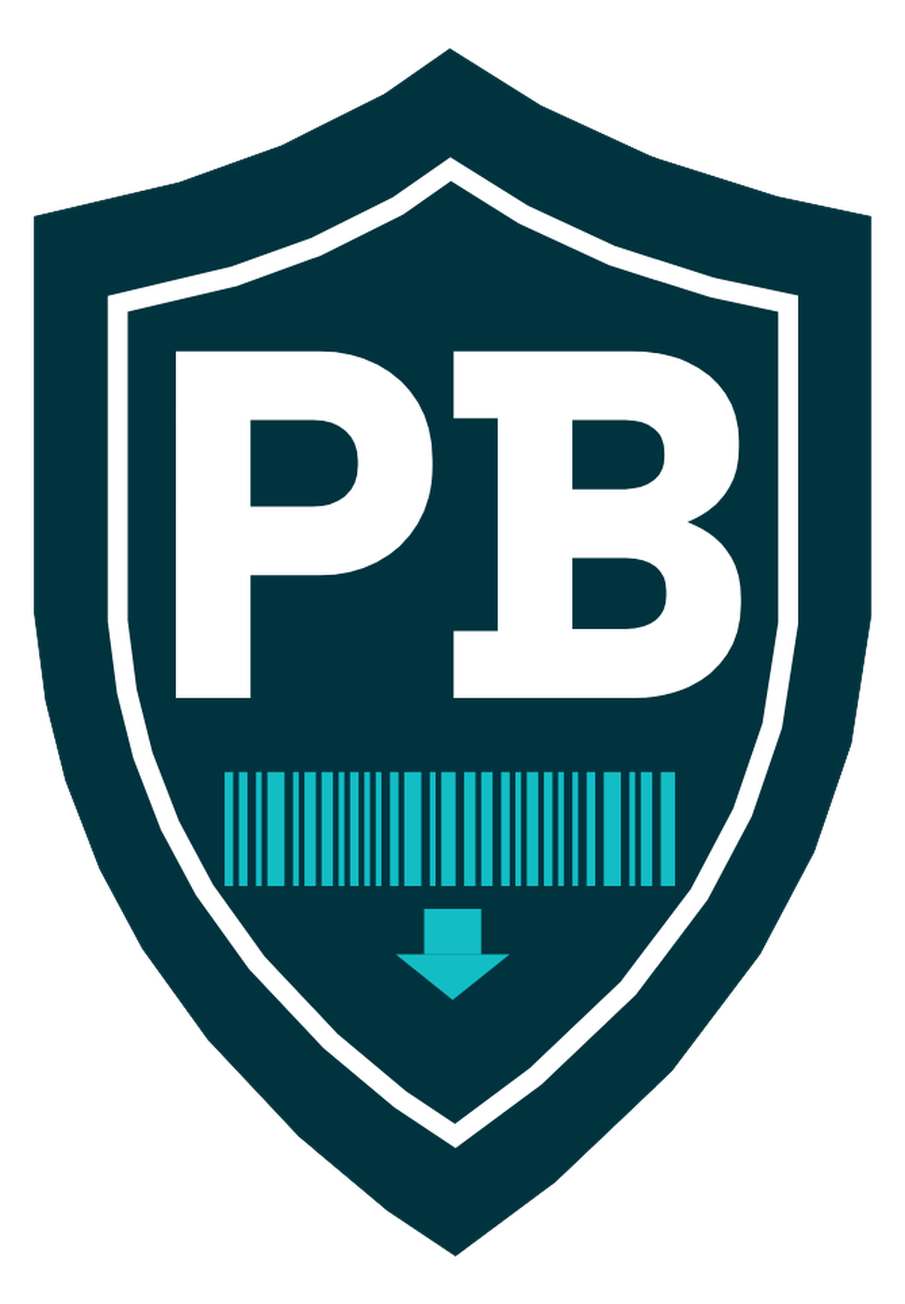
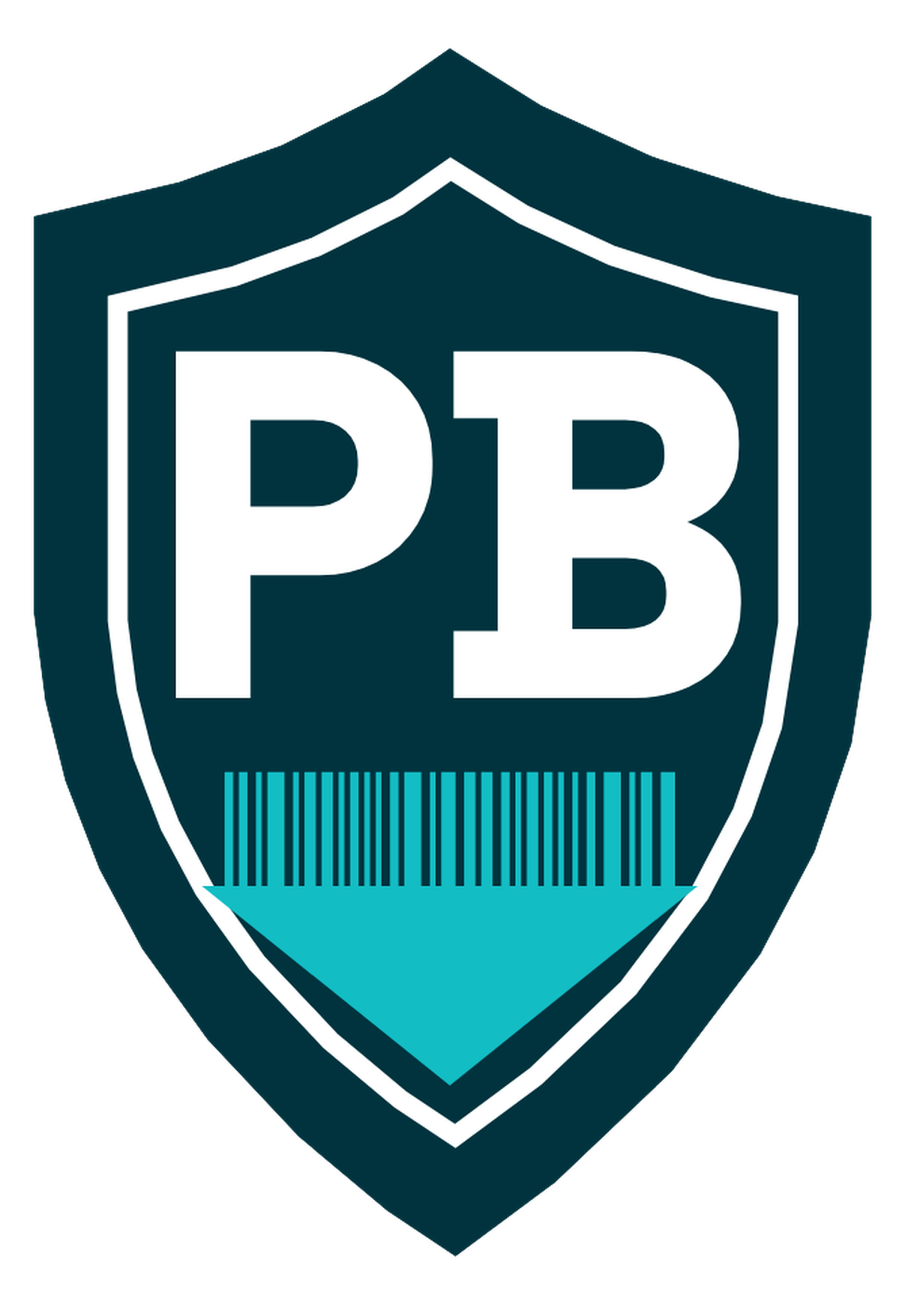
Merge arrow into barcode as one shape, make buttons light-to-dark green
Logo: the price-drop arrow is now a single triangle flush against the
barcode's bottom edge (no stem, no gap) so the two read as one
connected mark, matching the supplied reference exactly. Regenerated
the favicon and derived PNG assets from the updated master SVG.

Buttons: the app's generic button scheme (previously grey resting /
ink hover) now rests on a light green and goes to a darker green on
hover/press, using the brand's value-green token end to end. The
sidebar nav links and the logo's own wordmark color are untouched.

Claude-Session: https://claude.ai/code/session_01LVhEXspiaEvfKxL32FcBy7

Changed region(s): [[0.2163, 0.6757, 0.7724, 0.8293]]

diff --git a/components/check-price/CheckPriceExperience.tsx b/components/check-price/CheckPriceExperience.tsx
@@ -588,7 +588,7 @@ export function CheckPriceExperience({ initialMode }: { initialMode: Mode }) {
   // and the app.
   const outlineButton = isNativeApp
     ? "flex-1 rounded-xl border border-line bg-field px-4 py-3.5 font-display text-[14px] font-medium text-ink shadow-sm transition active:scale-[0.98] active:border-ink active:bg-ink-dark active:text-white"
-    : "flex-1 rounded border border-line bg-field px-4 py-3 font-display text-[15px] text-ink transition-colors hover:border-ink hover:bg-ink-soft hover:text-white active:border-ink active:bg-ink-dark active:text-white";
+    : "flex-1 rounded border border-value/30 bg-value-soft px-4 py-3 font-display text-[15px] text-value transition-colors hover:border-value hover:bg-value hover:text-white active:border-value active:bg-value-dark active:text-white";
 
   return (
     <AppPage>
@@ -602,7 +602,7 @@ export function CheckPriceExperience({ initialMode }: { initialMode: Mode }) {
           className={
             isNativeApp
               ? "btn-shine mb-6 w-full rounded-xl bg-ink px-4 py-6 font-display text-[20px] font-bold text-white shadow-md transition active:scale-[0.98] active:bg-ink-dark"
-              : "btn-shine mb-6 w-full rounded border border-line bg-field px-4 py-6 font-display text-[20px] font-bold text-ink transition-colors hover:border-ink hover:bg-ink-soft hover:text-white active:border-ink active:bg-ink-dark active:text-white"
+              : "btn-shine mb-6 w-full rounded border border-value/30 bg-value-soft px-4 py-6 font-display text-[20px] font-bold text-value transition-colors hover:border-value hover:bg-value hover:text-white active:border-value active:bg-value-dark active:text-white"
           }
         >
           {t("Check Price & Compare")}
@@ -680,7 +680,7 @@ export function CheckPriceExperience({ initialMode }: { initialMode: Mode }) {
           <button
             type="button"
             onClick={() => setCheckPriceRevealed(false)}
-            className="mb-6 inline-flex items-center gap-1 rounded border border-line bg-field px-3 py-1.5 font-display text-sm text-ink transition-colors hover:border-value hover:bg-value-soft active:border-value active:bg-value-soft"
+            className="mb-6 inline-flex items-center gap-1 rounded border border-value/30 bg-value-soft px-3 py-1.5 font-display text-sm text-value transition-colors hover:border-value hover:bg-value active:border-value active:bg-value-dark hover:text-white active:text-white"
           >
             {t("Back")}
           </button>
@@ -760,7 +760,7 @@ export function CheckPriceExperience({ initialMode }: { initialMode: Mode }) {
               <button
                 type="button"
                 onClick={startNewCheck}
-                className="whitespace-nowrap rounded border border-line bg-field px-3 py-1.5 font-display text-sm text-ink transition-colors hover:border-ink hover:bg-ink-soft hover:text-white active:border-ink active:bg-ink-dark active:text-white"
+                className="whitespace-nowrap rounded border border-value/30 bg-value-soft px-3 py-1.5 font-display text-sm text-value transition-colors hover:border-value hover:bg-value hover:text-white active:border-value active:bg-value-dark active:text-white"
               >
                 {t("Start new check")}
               </button>
@@ -957,7 +957,7 @@ export function CheckPriceExperience({ initialMode }: { initialMode: Mode }) {
               <button
                 onClick={() => setSortMode("price")}
                 className={`rounded-sm px-2 py-1 font-display text-[13px] transition-colors ${
-                  sortMode === "price" ? "bg-ink text-white" : "border border-line bg-field text-ink hover:bg-ink-soft hover:text-white"
+                  sortMode === "price" ? "bg-ink text-white" : "border border-value/30 bg-value-soft text-value hover:bg-value hover:text-white"
                 }`}
               >
                 {t("Best price")}
@@ -965,7 +965,7 @@ export function CheckPriceExperience({ initialMode }: { initialMode: Mode }) {
               <button
                 onClick={() => setSortMode("distance")}
                 className={`rounded-sm px-2 py-1 font-display text-[13px] transition-colors ${
-                  sortMode === "distance" ? "bg-ink text-white" : "border border-line bg-field text-ink hover:bg-ink-soft hover:text-white"
+                  sortMode === "distance" ? "bg-ink text-white" : "border border-value/30 bg-value-soft text-value hover:bg-value hover:text-white"
                 }`}
               >
                 {t("Nearest")}

diff --git a/app/(merchant)/inventory/add/page.tsx b/app/(merchant)/inventory/add/page.tsx
@@ -224,7 +224,7 @@ export default function AddItemPage() {
 
   return (
     <AppPage>
-      <Link href="/inventory" className="mb-4 inline-flex items-center gap-1 rounded border border-line bg-field px-3 py-1.5 font-display text-sm text-ink transition-colors hover:border-value hover:bg-value-soft active:border-value active:bg-value-soft">
+      <Link href="/inventory" className="mb-4 inline-flex items-center gap-1 rounded border border-value/30 bg-value-soft px-3 py-1.5 font-display text-sm text-value transition-colors hover:border-value hover:bg-value active:border-value active:bg-value-dark hover:text-white active:text-white">
         ← {t("Back to Manage Inventory")}
       </Link>
       <header className="mb-6">
@@ -243,21 +243,21 @@ export default function AddItemPage() {
               <button
                 type="button"
                 onClick={() => setShowScanner(true)}
-                className="flex-1 rounded border border-line bg-field px-4 py-3 font-display text-[15px] text-ink transition-colors hover:border-ink hover:bg-ink-soft hover:text-white active:border-ink active:bg-ink-dark active:text-white"
+                className="flex-1 rounded border border-value/30 bg-value-soft px-4 py-3 font-display text-[15px] text-value transition-colors hover:border-value hover:bg-value hover:text-white active:border-value active:bg-value-dark active:text-white"
               >
                 {t("Scan Barcode")}
               </button>
               <button
                 type="button"
                 onClick={() => cameraInputRef.current?.click()}
-                className="flex-1 rounded border border-line bg-field px-4 py-3 font-display text-[15px] text-ink transition-colors hover:border-ink hover:bg-ink-soft hover:text-white active:border-ink active:bg-ink-dark active:text-white"
+                className="flex-1 rounded border border-value/30 bg-value-soft px-4 py-3 font-display text-[15px] text-value transition-colors hover:border-value hover:bg-value hover:text-white active:border-value active:bg-value-dark active:text-white"
               >
                 {t("Snap")}
               </button>
               <button
                 type="button"
                 onClick={() => setMode("text")}
-                className="flex-1 rounded border border-line bg-field px-4 py-3 font-display text-[15px] text-ink transition-colors hover:border-ink hover:bg-ink-soft hover:text-white active:border-ink active:bg-ink-dark active:text-white"
+                className="flex-1 rounded border border-value/30 bg-value-soft px-4 py-3 font-display text-[15px] text-value transition-colors hover:border-value hover:bg-value hover:text-white active:border-value active:bg-value-dark active:text-white"
               >
                 {t("Enter item details")}
               </button>
@@ -296,8 +296,8 @@ export default function AddItemPage() {
                 disabled={extracting || !textQuery.trim()}
                 className={`rounded-sm px-4 py-1.5 font-display text-sm font-medium transition-colors disabled:opacity-40 ${
                   textQuery.trim()
-                    ? "bg-field text-ink hover:bg-ink-soft active:bg-ink-dark hover:text-white active:text-white"
-                    : "bg-field text-ink hover:bg-ink-soft hover:text-white active:bg-ink-dark active:text-white"
+                    ? "bg-value-soft text-value hover:bg-value active:bg-value-dark hover:text-white active:text-white"
+                    : "bg-value-soft text-value hover:bg-value hover:text-white active:bg-value-dark active:text-white"
                 }`}
               >
                 {extracting ? t("Reading…") : t("Identify")}
@@ -504,7 +504,7 @@ export default function AddItemPage() {
             <button
               onClick={handleSave}
               disabled={saving || !price}
-              className="rounded-sm bg-field px-4 py-2 font-display text-sm font-medium text-ink transition-colors hover:bg-ink-soft hover:text-white active:bg-ink-dark active:text-white disabled:opacity-40"
+              className="rounded-sm bg-value-soft px-4 py-2 font-display text-sm font-medium text-value transition-colors hover:bg-value hover:text-white active:bg-value-dark active:text-white disabled:opacity-40"
             >
               {saving ? t("Saving…") : t("Save item")}
             </button>

diff --git a/app/(merchant)/inventory/bulk/page.tsx b/app/(merchant)/inventory/bulk/page.tsx
@@ -108,7 +108,7 @@ export default function BulkUploadPage() {
 
   return (
     <AppPage>
-      <Link href="/inventory" className="mb-4 inline-flex items-center gap-1 rounded border border-line bg-field px-3 py-1.5 font-display text-sm text-ink transition-colors hover:border-value hover:bg-value-soft active:border-value active:bg-value-soft">
+      <Link href="/inventory" className="mb-4 inline-flex items-center gap-1 rounded border border-value/30 bg-value-soft px-3 py-1.5 font-display text-sm text-value transition-colors hover:border-value hover:bg-value active:border-value active:bg-value-dark hover:text-white active:text-white">
         ← {t("Back to Manage Inventory")}
       </Link>
 
@@ -130,7 +130,7 @@ export default function BulkUploadPage() {
             </p>
             <button
               onClick={downloadTemplate}
-              className="mt-3 rounded-sm border border-line bg-field px-4 py-2 font-display text-sm text-ink transition-colors hover:border-value hover:bg-ink-soft hover:text-white active:border-value active:bg-ink-dark active:text-white"
+              className="mt-3 rounded-sm border border-value/30 bg-value-soft px-4 py-2 font-display text-sm text-value transition-colors hover:border-value hover:bg-value hover:text-white active:border-value active:bg-value-dark active:text-white"
             >
               {t("Download template (CSV)")}
             </button>
@@ -144,7 +144,7 @@ export default function BulkUploadPage() {
             <div className="mt-3 flex flex-wrap items-center gap-3">
               <button
                 onClick={() => fileInputRef.current?.click()}
-                className="rounded-sm border border-line bg-field px-4 py-2 font-display text-sm text-ink transition-colors hover:border-value hover:bg-ink-soft hover:text-white active:border-value active:bg-ink-dark active:text-white"
+                className="rounded-sm border border-value/30 bg-value-soft px-4 py-2 font-display text-sm text-value transition-colors hover:border-value hover:bg-value hover:text-white active:border-value active:bg-value-dark active:text-white"
               >
                 {t("Choose CSV file")}
               </button>
@@ -156,7 +156,7 @@ export default function BulkUploadPage() {
               <button
                 onClick={handleUpload}
                 disabled={uploading}
-                className="mt-3 rounded-sm bg-field px-4 py-2 font-display text-sm font-medium text-ink transition-colors hover:bg-ink-soft active:bg-ink-dark disabled:opacity-40 hover:text-white active:text-white"
+                className="mt-3 rounded-sm bg-value-soft px-4 py-2 font-display text-sm font-medium text-value transition-colors hover:bg-value active:bg-value-dark disabled:opacity-40 hover:text-white active:text-white"
               >
                 {uploading ? t("Uploading…") : t("Upload and process")}
               </button>

diff --git a/components/merchant/InventoryTable.tsx b/components/merchant/InventoryTable.tsx
@@ -348,7 +348,7 @@ export function InventoryTable({
                     type="button"
                     onClick={lookupNutritionForEdit}
                     disabled={loadingNutrition}
-                    className="rounded-sm border border-line bg-field px-2 py-1 font-display text-xs text-ink transition-colors hover:border-value hover:bg-ink-soft hover:text-white active:border-value active:bg-ink-dark active:text-white disabled:opacity-40"
+                    className="rounded-sm border border-value/30 bg-value-soft px-2 py-1 font-display text-xs text-value transition-colors hover:border-value hover:bg-value hover:text-white active:border-value active:bg-value-dark active:text-white disabled:opacity-40"
                   >
                     {loadingNutrition ? t("Estimating…") : t("Look up nutrition facts")}
                   </button>
@@ -437,14 +437,14 @@ export function InventoryTable({
             <div className="mt-5 flex justify-end gap-2">
               <button
                 onClick={() => setEditing(null)}
-                className="rounded-sm bg-field px-4 py-2 font-display text-sm font-medium text-ink transition-colors hover:bg-ink-soft active:bg-ink-dark hover:text-white active:text-white"
+                className="rounded-sm bg-value-soft px-4 py-2 font-display text-sm font-medium text-value transition-colors hover:bg-value active:bg-value-dark hover:text-white active:text-white"
               >
                 {t("Cancel")}
               </button>
               <button
                 onClick={saveEdit}
                 disabled={savingEdit || !editName.trim()}
-                className="rounded-sm bg-field px-4 py-2 font-display text-sm font-medium text-ink hover:bg-ink-soft active:bg-ink-dark disabled:opacity-40 hover:text-white active:text-white"
+                className="rounded-sm bg-value-soft px-4 py-2 font-display text-sm font-medium text-value hover:bg-value active:bg-value-dark disabled:opacity-40 hover:text-white active:text-white"
               >
                 {savingEdit ? t("Saving…") : t("Save")}
               </button>
@@ -557,7 +557,7 @@ export function InventoryTable({
             </div>
             <button
               onClick={() => setViewingNutrition(null)}
-              className="mt-4 w-full rounded-sm bg-field px-4 py-2 font-display text-sm text-ink transition-colors hover:bg-ink-soft hover:text-white active:bg-ink-dark active:text-white"
+              className="mt-4 w-full rounded-sm bg-value-soft px-4 py-2 font-display text-sm text-value transition-colors hover:bg-value hover:text-white active:bg-value-dark active:text-white"
             >
               {t("Close")}
             </button>

diff --git a/app/(auth)/signup/merchant/page.tsx b/app/(auth)/signup/merchant/page.tsx
@@ -180,7 +180,7 @@ export default function MerchantSignup() {
         </p>
         <Link
           href="/login?justSignedUp=1"
-          className="mt-6 block rounded-sm bg-field px-4 py-2 text-center font-display text-sm font-medium text-ink hover:bg-ink-soft active:bg-ink-dark hover:text-white active:text-white"
+          className="mt-6 block rounded-sm bg-value-soft px-4 py-2 text-center font-display text-sm font-medium text-value hover:bg-value active:bg-value-dark hover:text-white active:text-white"
         >
           {t("Go to log in")}
         </Link>
@@ -254,7 +254,7 @@ export default function MerchantSignup() {
           <div className="flex items-center justify-between">
             <span className="text-sm text-ash">{t("Store location")} <span className="text-red-600">*</span></span>
             <button type="button" onClick={captureLocation}
-              className="rounded-sm bg-field px-2 py-1 font-display text-xs font-medium text-ink transition-colors hover:bg-ink-soft hover:text-white active:bg-ink-dark active:text-white">
+              className="rounded-sm bg-value-soft px-2 py-1 font-display text-xs font-medium text-value transition-colors hover:bg-value hover:text-white active:bg-value-dark active:text-white">
               {locating ? "…" : coords ? t("Update") : t("Use my location")}
             </button>
           </div>
@@ -314,7 +314,7 @@ export default function MerchantSignup() {
         </label>
 
         <button type="submit" disabled={busy || !agreedToTerms}
-          className="mt-2 rounded-sm bg-field px-4 py-2 font-display text-sm font-medium text-ink hover:bg-ink-soft active:bg-ink-dark disabled:opacity-40 hover:text-white active:text-white">
+          className="mt-2 rounded-sm bg-value-soft px-4 py-2 font-display text-sm font-medium text-value hover:bg-value active:bg-value-dark disabled:opacity-40 hover:text-white active:text-white">
           {busy ? t("Setting up…") : t("Register your store")}
         </button>
       </form>

diff --git a/components/admin/StoreDetailsDialog.tsx b/components/admin/StoreDetailsDialog.tsx
@@ -73,7 +73,7 @@ export function StoreDetailsDialog({ store, onClose }: { store: StoreDetails | n
                 href={store.logo_url}
                 target="_blank"
                 rel="noreferrer"
-                className="rounded-sm bg-field px-3 py-1.5 text-sm font-medium text-ink hover:bg-ink-soft active:bg-ink-dark hover:text-white active:text-white"
+                className="rounded-sm bg-value-soft px-3 py-1.5 text-sm font-medium text-value hover:bg-value active:bg-value-dark hover:text-white active:text-white"
               >
                 View logo
               </a>
@@ -83,7 +83,7 @@ export function StoreDetailsDialog({ store, onClose }: { store: StoreDetails | n
                 href={store.cr_certificate_url}
                 target="_blank"
                 rel="noreferrer"
-                className="rounded-sm bg-field px-3 py-1.5 text-sm font-medium text-ink hover:bg-ink-soft active:bg-ink-dark hover:text-white active:text-white"
+                className="rounded-sm bg-value-soft px-3 py-1.5 text-sm font-medium text-value hover:bg-value active:bg-value-dark hover:text-white active:text-white"
               >
                 View CR certificate
               </a>
@@ -93,7 +93,7 @@ export function StoreDetailsDialog({ store, onClose }: { store: StoreDetails | n
                 href={store.store_photo_url}
                 target="_blank"
                 rel="noreferrer"
-                className="rounded-sm bg-field px-3 py-1.5 text-sm font-medium text-ink hover:bg-ink-soft active:bg-ink-dark hover:text-white active:text-white"
+                className="rounded-sm bg-value-soft px-3 py-1.5 text-sm font-medium text-value hover:bg-value active:bg-value-dark hover:text-white active:text-white"
               >
                 View store photo
               </a>

diff --git a/app/(auth)/signup/page.tsx b/app/(auth)/signup/page.tsx
@@ -18,14 +18,14 @@ export default function SignupChooser() {
       <div className="mt-6 flex flex-col gap-3">
         <Link
           href="/signup/customer"
-          className="group rounded border border-line bg-field px-4 py-4 text-left transition-colors hover:border-ink hover:bg-ink-soft active:border-ink active:bg-ink-dark hover:text-white active:text-white"
+          className="group rounded border border-value/30 bg-value-soft px-4 py-4 text-left transition-colors hover:border-value hover:bg-value active:border-value active:bg-value-dark hover:text-white active:text-white"
         >
           <p className="font-display text-[15px] font-medium text-ink group-hover:text-white">{t("I'm shopping")}</p>
           <p className="mt-0.5 text-sm text-ash group-hover:text-white/90">{t("Find the best local prices near me.")}</p>
         </Link>
         <Link
           href="/signup/merchant"
-          className="group rounded border border-line bg-field px-4 py-4 text-left transition-colors hover:border-ink hover:bg-ink-soft active:border-ink active:bg-ink-dark hover:text-white active:text-white"
+          className="group rounded border border-value/30 bg-value-soft px-4 py-4 text-left transition-colors hover:border-value hover:bg-value active:border-value active:bg-value-dark hover:text-white active:text-white"
         >
           <p className="font-display text-[15px] font-medium text-ink group-hover:text-white">{t("I own a store")}</p>
           <p className="mt-0.5 text-sm text-ash group-hover:text-white/90">{t("List my prices and reach nearby shoppers.")}</p>

diff --git a/app/(merchant)/registered-items/page.tsx b/app/(merchant)/registered-items/page.tsx
@@ -133,7 +133,7 @@ export default function RegisteredItemsPage() {
               className={
                 isNativeApp
                   ? "rounded-lg bg-field px-3 py-1.5 font-display text-sm font-medium text-ink shadow-sm transition active:scale-[0.98] active:bg-ink-dark active:text-white disabled:opacity-60"
-                  : "rounded-sm border border-line bg-field px-3 py-1.5 font-display text-sm text-ink transition-colors hover:border-value hover:bg-ink-soft hover:text-white active:border-value active:bg-ink-dark active:text-white disabled:opacity-40"
+                  : "rounded-sm border border-value/30 bg-value-soft px-3 py-1.5 font-display text-sm text-value transition-colors hover:border-value hover:bg-value hover:text-white active:border-value active:bg-value-dark active:text-white disabled:opacity-40"
               }
             >
               {fillingNutrition
@@ -147,7 +147,7 @@ export default function RegisteredItemsPage() {
           <div className="relative">
             <button
               onClick={() => setSortMenuOpen((o) => !o)}
-              className="rounded-sm bg-field px-3 py-1.5 font-display text-sm font-medium text-ink transition-colors hover:bg-ink-soft active:bg-ink-dark hover:text-white active:text-white"
+              className="rounded-sm bg-value-soft px-3 py-1.5 font-display text-sm font-medium text-value transition-colors hover:bg-value active:bg-value-dark hover:text-white active:text-white"
             >
               {sortLabel}
             </button>

diff --git a/app/store/[id]/page.tsx b/app/store/[id]/page.tsx
@@ -231,7 +231,7 @@ export default function StoreDetailPage({ params }: { params: { id: string } }) 
         href={`https://www.google.com/maps/dir/?api=1&destination=${store.lat},${store.lng}`}
         target="_blank"
         rel="noreferrer"
-        className="mt-4 inline-block rounded-sm bg-field px-4 py-2 font-display text-sm font-medium text-ink hover:bg-ink-soft active:bg-ink-dark hover:text-white active:text-white"
+        className="mt-4 inline-block rounded-sm bg-value-soft px-4 py-2 font-display text-sm font-medium text-value hover:bg-value active:bg-value-dark hover:text-white active:text-white"
       >
         {t("Get directions")}
       </a>
@@ -350,7 +350,7 @@ export default function StoreDetailPage({ params }: { params: { id: string } }) 
         <button
           onClick={submitReview}
           disabled={!myRating || submitting}
-          className="mt-2 rounded-sm bg-field px-4 py-1.5 font-display text-sm text-ink transition-colors hover:bg-ink-soft hover:text-white active:bg-ink-dark active:text-white disabled:opacity-40"
+          className="mt-2 rounded-sm bg-value-soft px-4 py-1.5 font-display text-sm text-value transition-colors hover:bg-value hover:text-white active:bg-value-dark active:text-white disabled:opacity-40"
         >
           {submitting ? t("Saving…") : myReview ? t("Update review") : t("Submit review")}
         </button>

diff --git a/app/settings/page.tsx b/app/settings/page.tsx
@@ -327,7 +327,7 @@ export default function SettingsPage() {
                 type="button"
                 onClick={captureLocation}
                 disabled={locating}
-                className="rounded-sm bg-field px-2 py-1 font-display text-xs font-medium text-ink transition-colors hover:bg-ink-soft hover:text-white active:bg-ink-dark active:text-white disabled:opacity-40"
+                className="rounded-sm bg-value-soft px-2 py-1 font-display text-xs font-medium text-value transition-colors hover:bg-value hover:text-white active:bg-value-dark active:text-white disabled:opacity-40"
               >
                 {locating ? "…" : coords ? t("Update") : t("Use my location")}
               </button>
@@ -445,7 +445,7 @@ export default function SettingsPage() {
       <button
         onClick={handleSave}
         disabled={busy}
-        className="mt-6 w-full rounded-sm bg-field px-4 py-2 font-display text-sm font-medium text-ink hover:bg-ink-soft active:bg-ink-dark disabled:opacity-40 hover:text-white active:text-white"
+        className="mt-6 w-full rounded-sm bg-value-soft px-4 py-2 font-display text-sm font-medium text-value hover:bg-value active:bg-value-dark disabled:opacity-40 hover:text-white active:text-white"
       >
         {busy ? t("Saving…") : t("Save changes")}
       </button>

diff --git a/components/admin/Pagination.tsx b/components/admin/Pagination.tsx
@@ -33,14 +33,14 @@ export function Pagination({
         <button
           onClick={() => onPageChange(Math.max(0, page - 1))}
           disabled={page === 0}
-          className="rounded-sm bg-field px-3 py-1.5 font-medium text-ink transition-colors hover:bg-ink-soft hover:text-white active:bg-ink-dark active:text-white disabled:opacity-40"
+          className="rounded-sm bg-value-soft px-3 py-1.5 font-medium text-value transition-colors hover:bg-value hover:text-white active:bg-value-dark active:text-white disabled:opacity-40"
         >
           ← {t("Back")}
         </button>
         <button
           onClick={() => onPageChange(Math.min(totalPages - 1, page + 1))}
           disabled={page >= totalPages - 1}
-          className="rounded-sm bg-field px-3 py-1.5 font-medium text-ink hover:bg-ink-soft active:bg-ink-dark disabled:opacity-40 hover:text-white active:text-white"
+          className="rounded-sm bg-value-soft px-3 py-1.5 font-medium text-value hover:bg-value active:bg-value-dark disabled:opacity-40 hover:text-white active:text-white"
         >
           {t("Next")} →
         </button>

diff --git a/app/(merchant)/inventory/page.tsx b/app/(merchant)/inventory/page.tsx
@@ -51,7 +51,7 @@ export default function InventoryPage() {
   // highlighting actual cheaper prices, not generic buttons.
   const buttonClass = isNativeApp
     ? "flex-1 rounded-xl border border-line bg-field px-4 py-3.5 text-center font-display text-[14px] font-medium text-ink shadow-sm transition active:scale-[0.98] active:border-ink active:bg-ink-dark active:text-white"
-    : "flex-1 rounded border border-line bg-field px-4 py-3 font-display text-[15px] text-ink transition-colors hover:border-ink hover:bg-ink-soft hover:text-white active:border-ink active:bg-ink-dark active:text-white";
+    : "flex-1 rounded border border-value/30 bg-value-soft px-4 py-3 font-display text-[15px] text-value transition-colors hover:border-value hover:bg-value hover:text-white active:border-value active:bg-value-dark active:text-white";
   const primaryButtonClass = isNativeApp
     ? "flex-1 rounded-xl bg-field px-4 py-3.5 text-center font-display text-[14px] font-semibold text-ink shadow-md transition active:scale-[0.98] active:bg-ink-dark active:text-white"
     : buttonClass;
